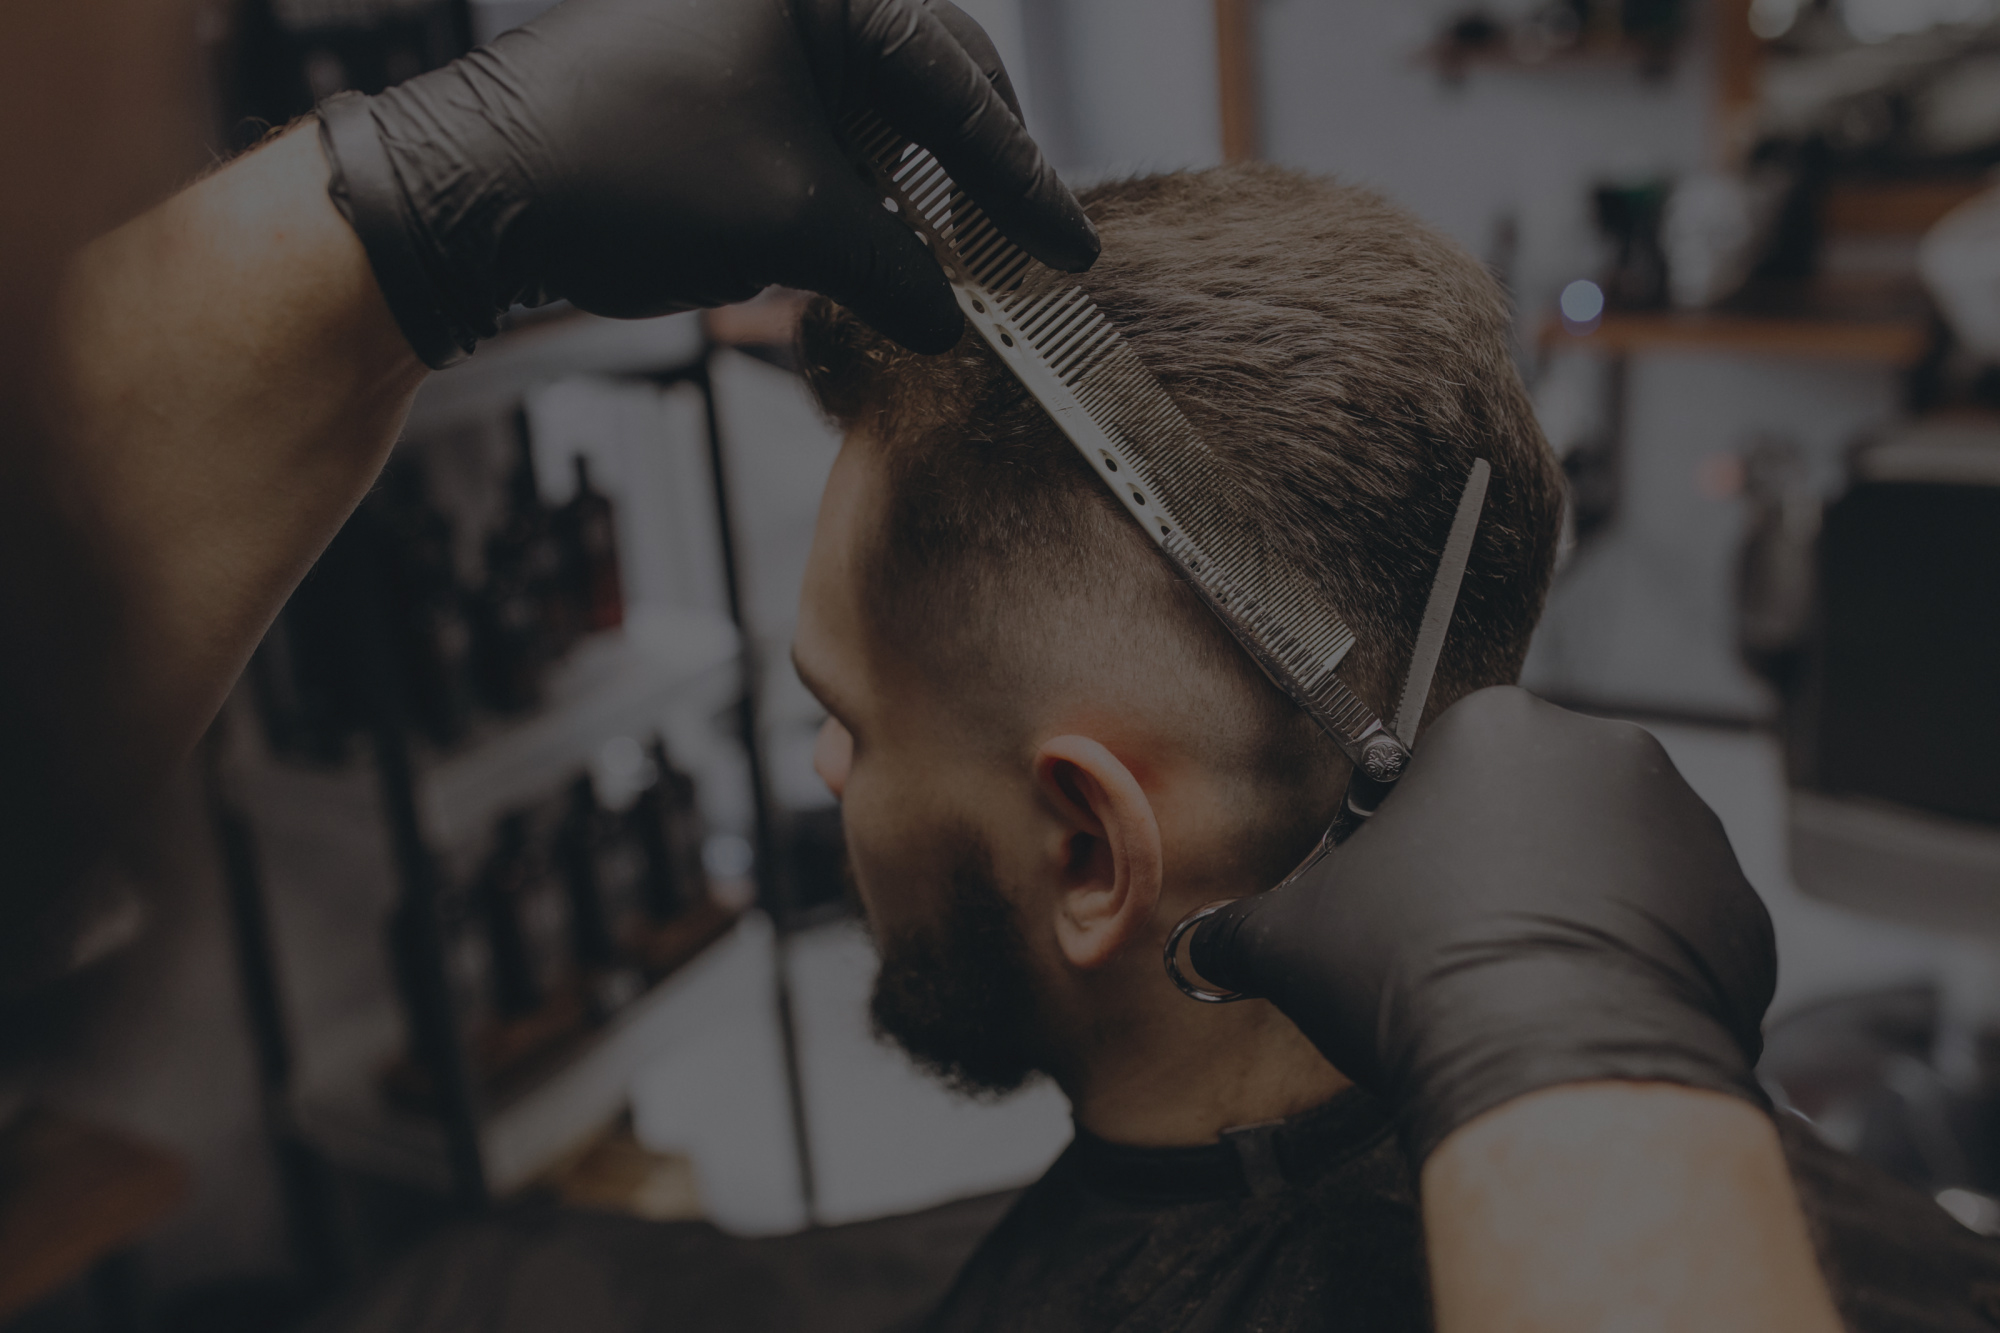
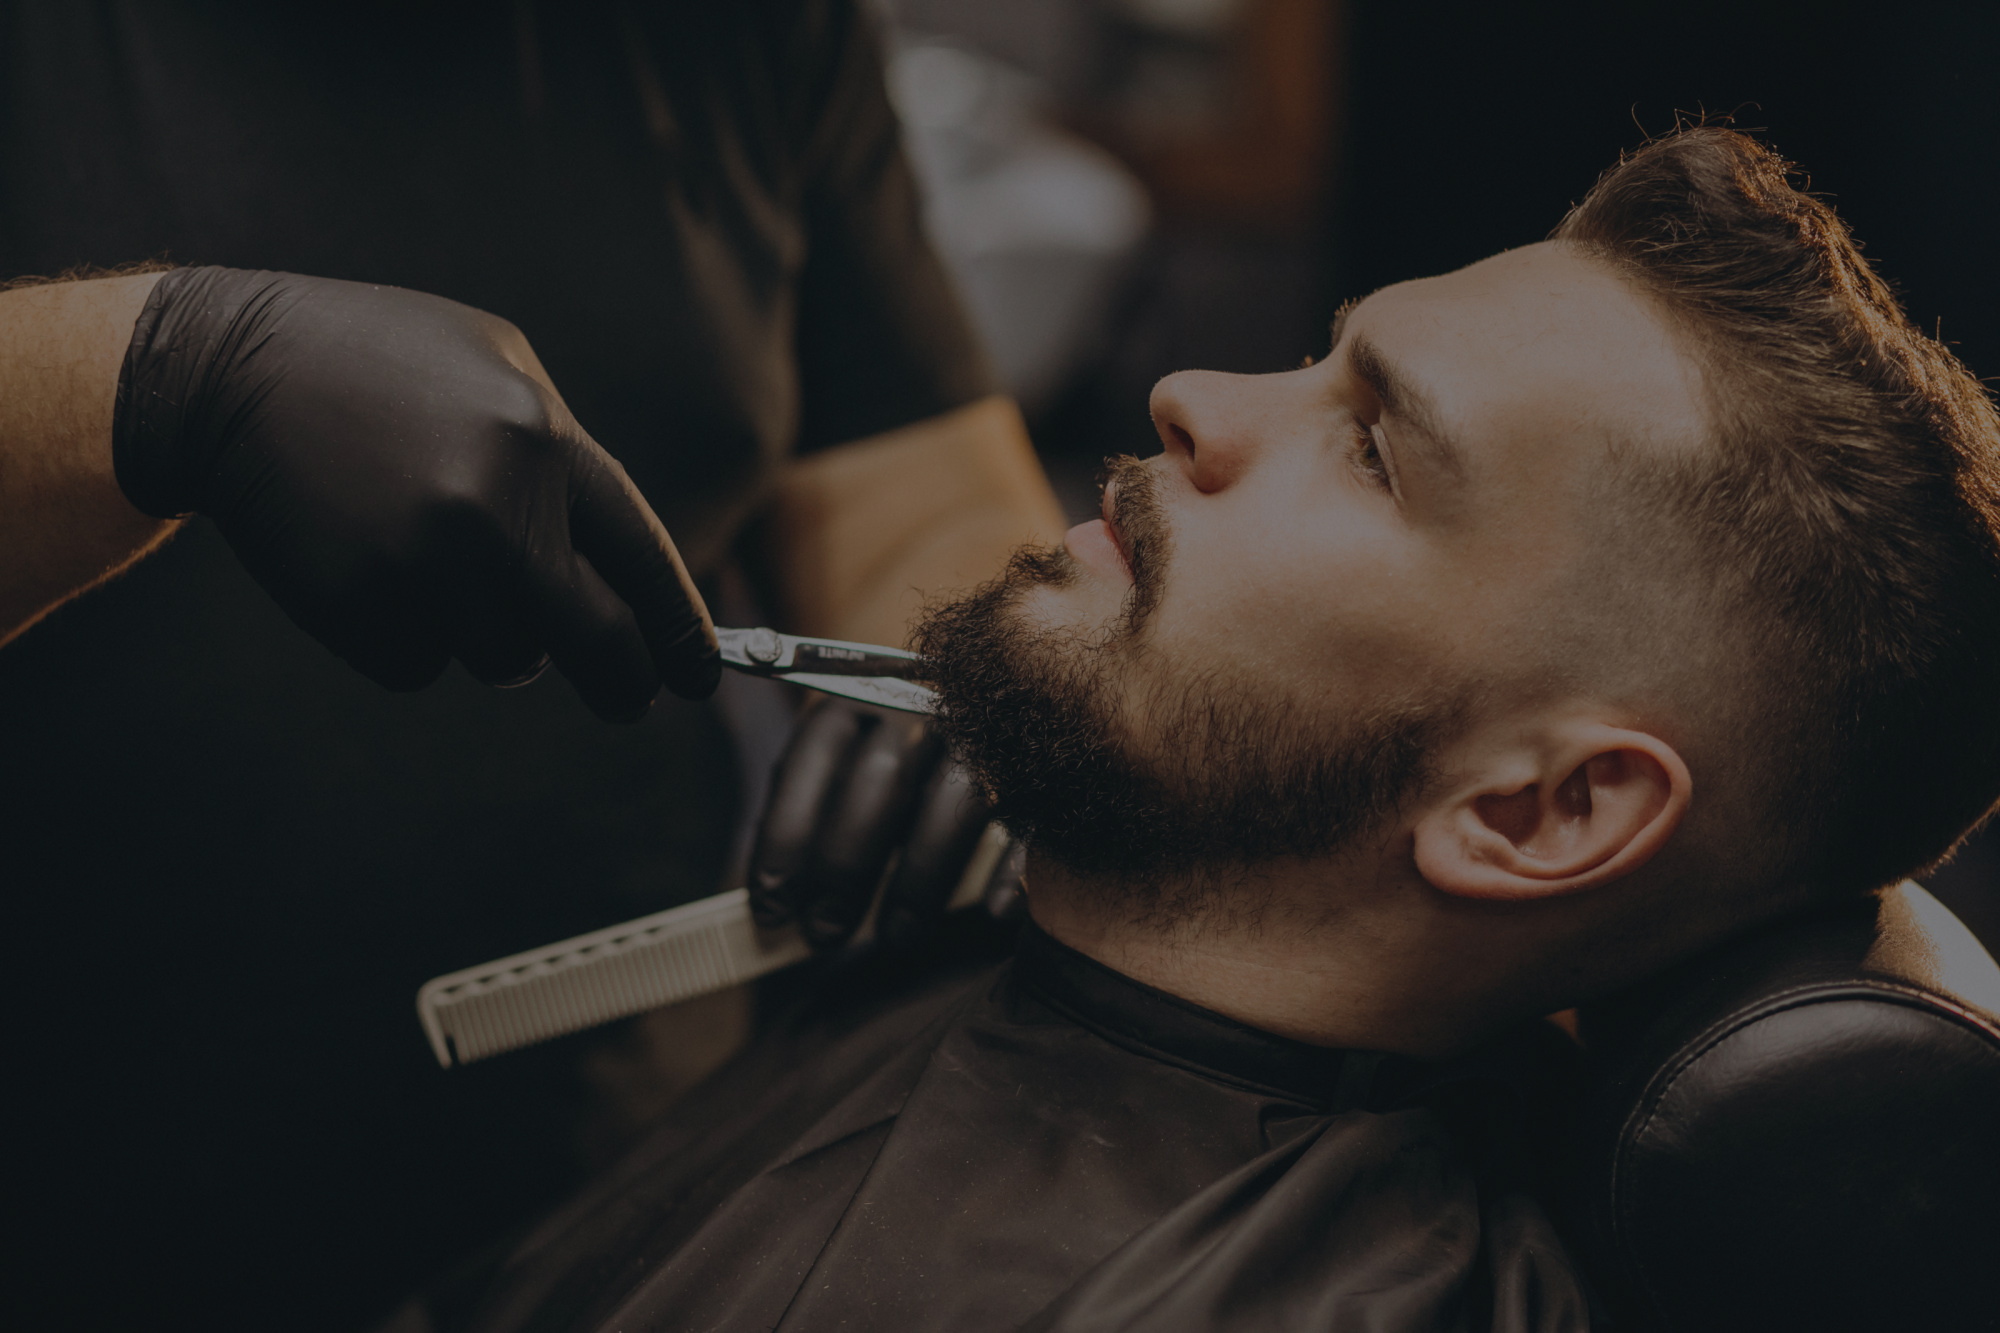
Update service page, and cover images
- Added services data
- Added new hero cover images in each section
- Updated CSS

diff --git a/data.js b/data.js
@@ -23,7 +23,56 @@ const testimonials = [
 ];
 
 const services = [
-    {}
+    {
+        name: "Men's Haircut",
+        description: "A precision haircut tailored to your style.",
+        price: "$25"
+    },
+    {
+        name: "Women's Haircut",
+        description: "A stylish cut and finish for women.",
+        price: "$35"
+    },
+    {
+        name: "Children's Haircut",
+        description: "A fun and stylish haircut for kids.",
+        price: "$20"
+    },
+    {
+        name: "Hair Coloring",
+        description: "Professional hair coloring with high-quality products.",
+        price: "$60"
+    },
+    {
+        name: "Highlights",
+        description: "Add dimension and brightness with highlights.",
+        price: "$75"
+    },
+    {
+        name: "Hair Styling",
+        description: "Expert styling for special occasions or everyday wear.",
+        price: "$30"
+    },
+    {
+        name: "Blow Dry",
+        description: "A sleek and smooth blowout for any hair type.",
+        price: "$25"
+    },
+    {
+        name: "Beard Trim",
+        description: "Detailed beard trimming and shaping.",
+        price: "$15"
+    },
+    {
+        name: "Threading",
+        description: "Precise eyebrow and facial hair threading.",
+        price: "$10"
+    },
+    {
+        name: "Keratin Treatment",
+        description: "Smooth and straighten hair with a keratin treatment.",
+        price: "$150"
+    }
 ];
 
 export { testimonials, services };

diff --git a/public/css/styles.css b/public/css/styles.css
@@ -48,35 +48,33 @@ main {
 }
 
 /* service */
-.hero-section {
-    background-image: url("../images/service-cover-image.jpg");
-    height: 700px;
-    background-size: cover;
+.fm-service-list {
+    display: flex;
+    justify-content: space-between;
+    align-items: center;
+    margin-block: 15px;
+}
+.fm-liner {
+    width: 100%;
+    border-bottom: 2px dotted var(--primary-text-color);
+    flex: 1;
+    margin-inline: 20px;
+}
+.fm-service-name,
+.fm-service-price {
+    width: max-content;
+    white-space: nowrap;
+    flex: 0;
+    font-size: 1.6rem;
+    font-family: "Itim", cursive;
+}
+.fm-service-name{ cursor: pointer; }
+.fm-service-heading {
+    margin-block: 30px;
+    font-size: 1.8rem;
 }
 
-.hero-section .fm-container-wrapper {
-    width: 80%;
-    display: grid;
-    place-content: center;
-}
-
-.hero-section .fm-container-wrapper h1{
-    font-size: 4rem;
-    font-weight: 800;
-    color: var(--white-text-color);
-}
-
-.hero-section .fm-container-wrapper p {
-    font-size: 1.5rem;
-    font-weight: 400;
-    color: var(--secondary-text-color);
-}
-
-.hero-section > div {
-    display: grid;
-    place-content: center;
-}
-
+/* homepage */
 .map-section iframe {
     width: 100%;
     height: 700px;
@@ -89,5 +87,4 @@ main {
 
 .achievement-section h1{
     font-size: 3rem;
-    
 }

diff --git a/public/css/utilities.css b/public/css/utilities.css
@@ -50,6 +50,10 @@ body {
   height: 100%;
 }
 
+.fm-mb-40 {
+  margin-bottom: 40px;
+}
+
 .active {
   position: relative;
   color: #b4b400;
@@ -73,6 +77,37 @@ body {
   background: #ececec;
   border-radius: 10px;
 }
+
+.hero-section {
+  background-image: url("../images/home-cover-image.jpg");
+  height: 700px;
+  background-size: cover;
+}
+.hero-section.fm-service-img {  background: url("../images/service-cover-image.jpg") center/cover;}
+.hero-section.fm-testimonial-img {  background: url("../images/testimonial-cover-image.jpg") center/cover;}
+.hero-section .fm-container-wrapper {
+  width: 80%;
+  display: grid;
+  place-content: center;
+}
+
+.hero-section .fm-container-wrapper h1{
+  font-size: 4rem;
+  font-weight: 800;
+  color: var(--white-text-color);
+}
+
+.hero-section .fm-container-wrapper p {
+  font-size: 1.5rem;
+  font-weight: 400;
+  color: var(--secondary-text-color);
+}
+
+.hero-section > div {
+  display: grid;
+  place-content: center;
+}
+
 
 /* Fonts */
 .itim-regular {

diff --git a/index.js b/index.js
@@ -20,7 +20,8 @@ app.get("/about-us", (req, res) => {
 
 app.get("/service", (req, res) => {
     res.render("service.ejs", { 
-        currentPath: '/service'
+        currentPath: '/service',
+        services: services
     });
 })
 
